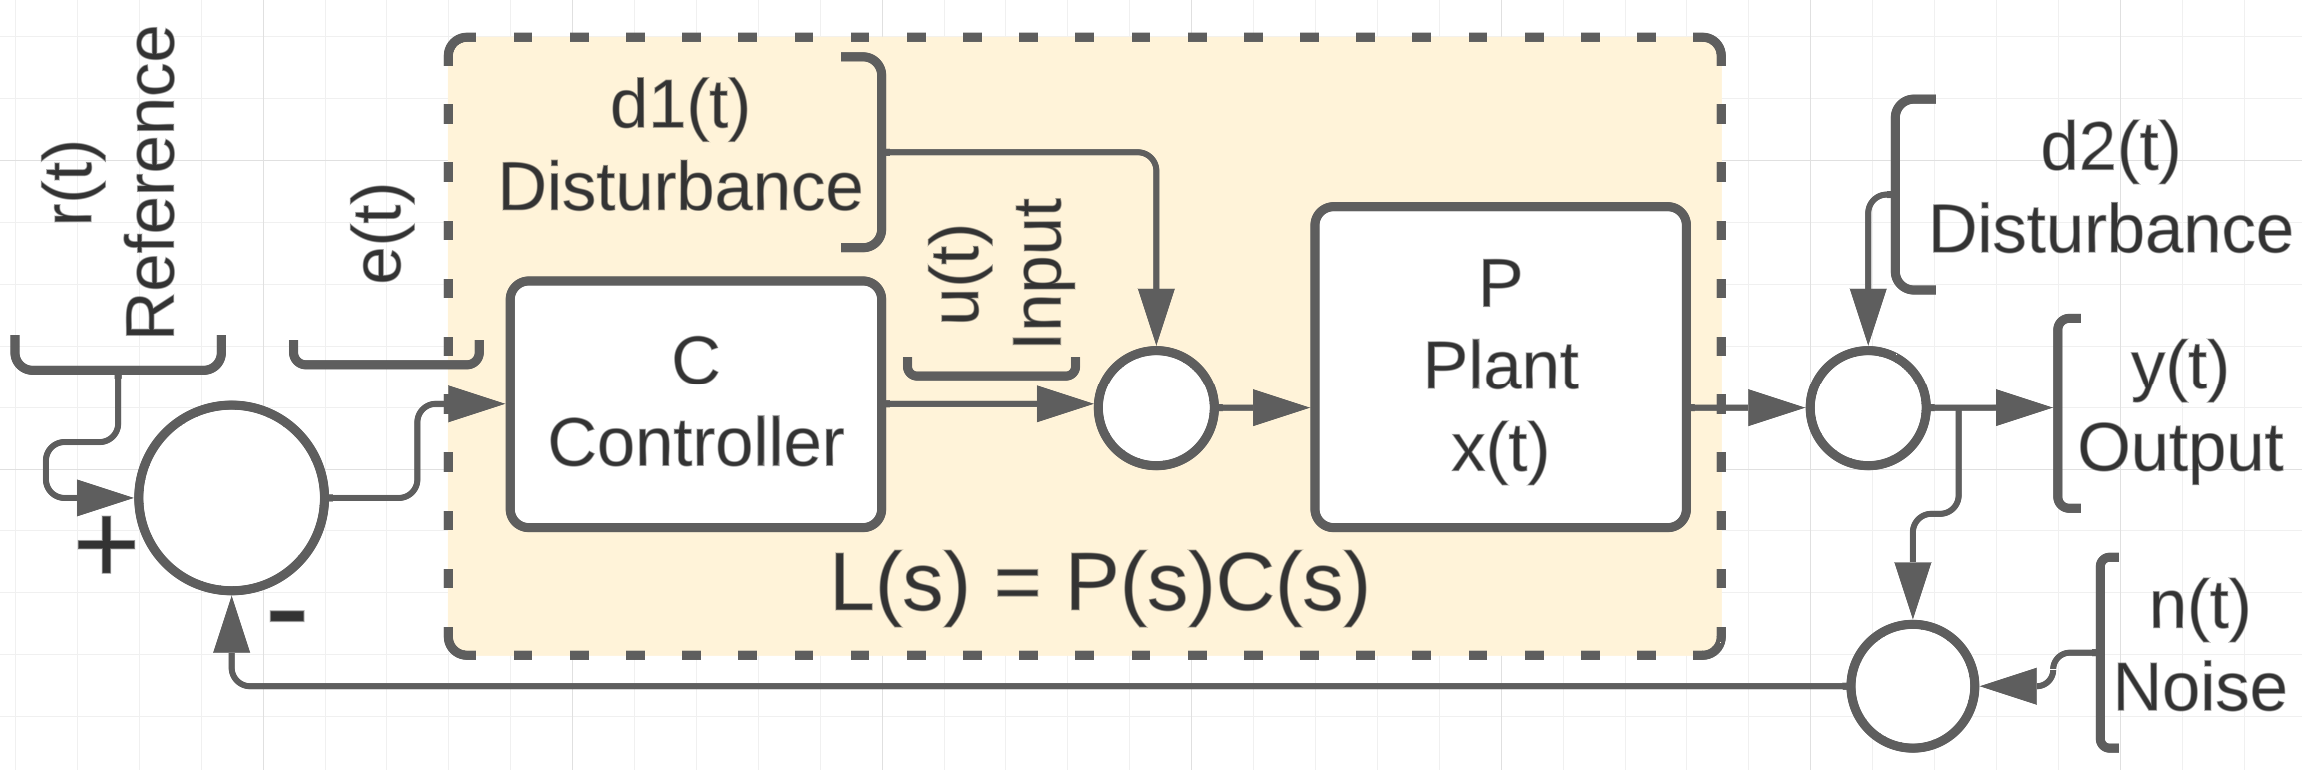
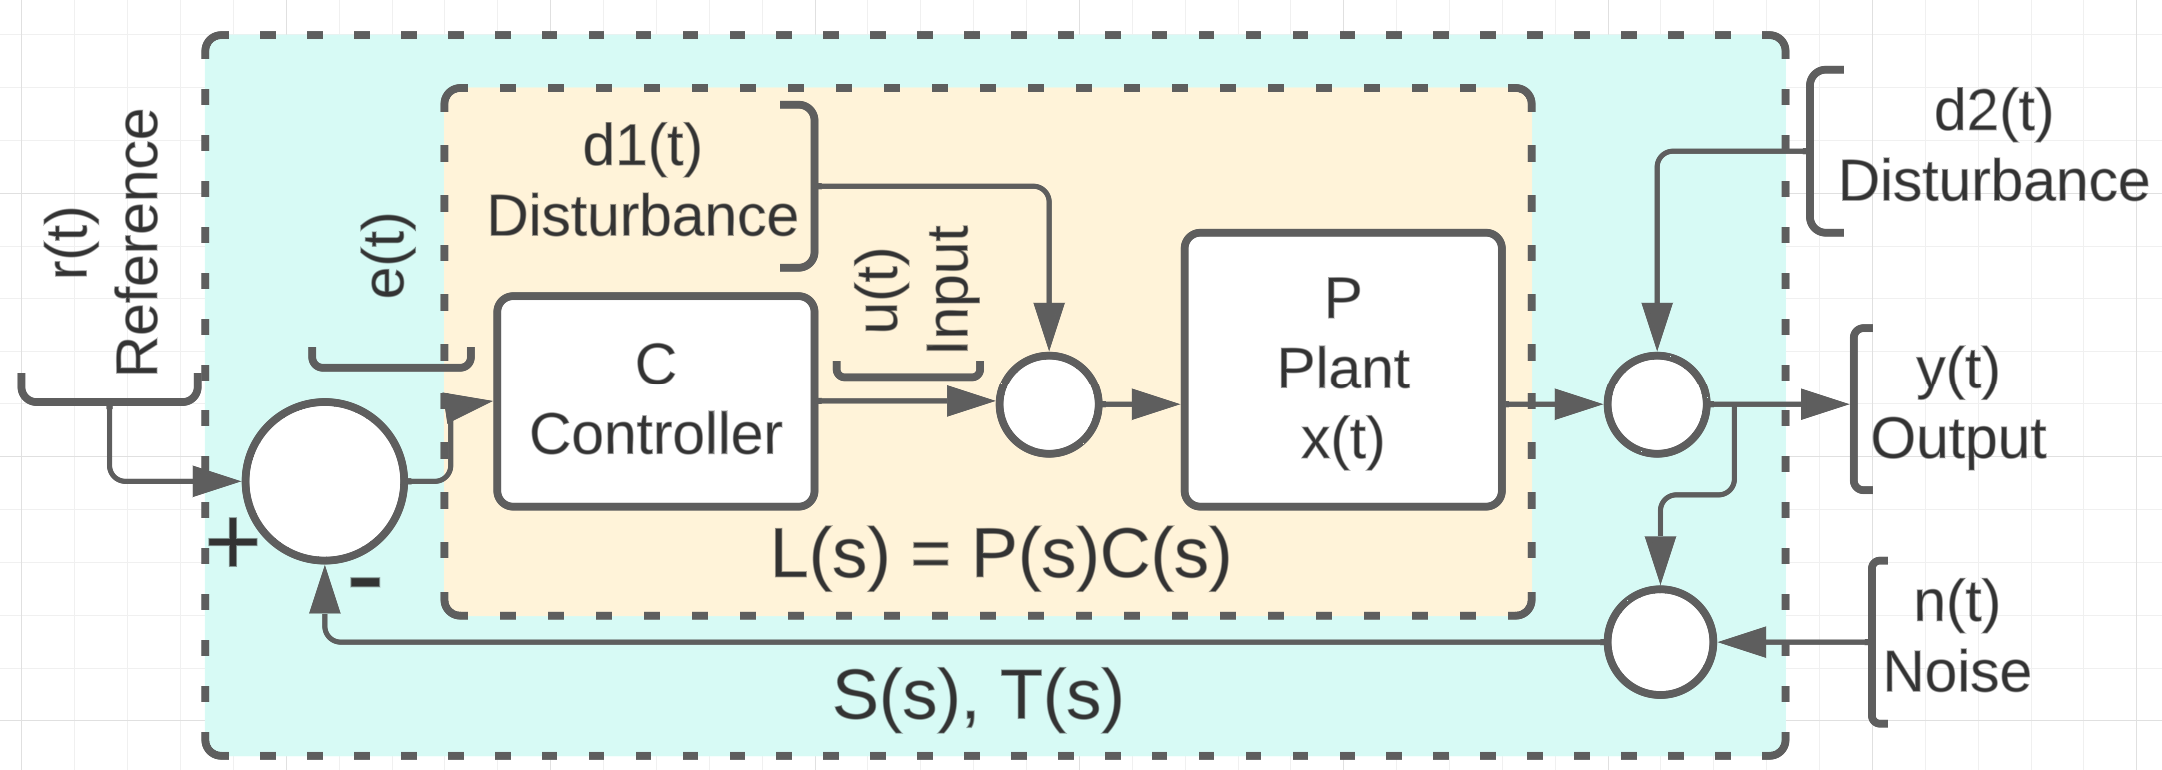
System response, Step responses, dominant poles, pid part 2

diff --git a/cheatsheet/src/4_manipulation/1_pid.tex b/cheatsheet/src/4_manipulation/1_pid.tex
@@ -1,14 +1,58 @@
 \subsection{PID Controller}
-    \titel{Differentiator}
-        \begin{align*}
-            y(t) = \frac{d u(t)}{dt} = \frac{d}{dt} e^{st} = s \cdot e^{st} = s \cdot u(t)
-        \end{align*}
-    \titel{Integrator}
-        \begin{align*}
-            y(t) = \int u(t) dt = \int e^{st} dt = \frac{1}{s} \cdot e^{st} = \frac{1}{s} \cdot u(t)
-        \end{align*}
+    \subsubsection{P-Controller}
+        \titel{Gain}
+            \begin{align*}
+                y(t) = u(t)
+            \end{align*}
+        \begin{itemize}
+            \item proportional to error
+            \item higher proportional gain moves crossover frequency up
+            \item $k_P$ increases:
+            \begin{itemize}
+                \item closed-loop system of 2nd and higher order become more oscillatory
+                \item closed-loop system remains stable
+                \item $e_{ss}$ decreases
+                \item faster response
+                \item increased sensitivity to noise
+            \end{itemize}
+        \end{itemize}
 
-    \titel{Building the controller}
+    \subsubsection{I-Controller (integral)}
+        \titel{Integrator}
+            \begin{align*}
+                y(t) = \int u(t) dt = \int e^{st} dt = \frac{1}{s} \cdot e^{st} = \frac{1}{s} \cdot u(t)
+            \end{align*}
+        \begin{itemize}
+            \item proportional to accumulated error
+            \item new zero introduced
+            \item number of asymptotes is reduced
+            \item steady state error to step input\textbf{exactly zero}
+            \item $k_I$ increases:
+            \begin{itemize}
+                \item more oscillatory response
+                \item noise sensitivity does not change
+            \end{itemize}
+        \end{itemize}
+
+    \subsubsection{D-Controller (derivative)}
+        \titel{Differentiator}
+            \begin{align*}
+                y(t) = \frac{d u(t)}{dt} = \frac{d}{dt} e^{st} = s \cdot e^{st} = s \cdot u(t)
+            \end{align*}
+        \begin{itemize}
+            \item proportional to rate of change of error (reduced overshoot)
+            \item pole introduced at $p=0$
+            \item zero introduced at $z = -\frac{k_i}{k_p}$
+            \item number of asymptotes unchanged
+            \item $k_P$ increases:
+            \begin{itemize}
+                \item $e_{ss}$ unaffected
+                \item less oscillatory, but potentially slower
+                \item increased sensitivity to noise
+            \end{itemize}
+        \end{itemize}
+
+    \subsubsection{Building the controller}
         \begin{minipage}{0.49\linewidth}
             \begin{align*}
                 C(s) &= k_P + \frac{k_I}{s} + k_D \cdot s\\

diff --git a/cheatsheet/src/3_analysis/1_system_response.tex b/cheatsheet/src/3_analysis/1_system_response.tex
@@ -1,0 +1,53 @@
+\subsection{System response}
+    \includegraphics[width = \linewidth]{src/images/basic_block_chart.png}
+    \begin{minipage}{0.49\linewidth}
+        \titel{Sensitivity}
+        \begin{center}
+            $S(s) = \frac{1}{1 + L(s)}$
+        \end{center}
+    \end{minipage}
+    \begin{minipage}{0.49\linewidth}
+        \titel{Complimentary Sensitivity}
+        \begin{center}
+            $S(s) = \frac{L(s)}{1 + L(s)}$
+        \end{center}
+    \end{minipage}
+    
+    \subsubsection{steady state error, disturbance and noise}
+    find steady state using final value theorem $\lim\limits_{t \rightarrow \infty} a(t) = \lim\limits_{s \rightarrow 0} A(s)$
+    \begin{minipage}{0.32\linewidth}
+        \begin{align*}
+            e(t) = S(s) r(t)\\
+            e(t) = - S(s) d_2(t)
+        \end{align*}
+    \end{minipage}
+    \begin{minipage}{0.32\linewidth}
+        \begin{align*}
+            e(t) = - S(s) n(t)\\
+            e(t) = - T(s) d_1(t)
+        \end{align*}
+    \end{minipage}
+    \begin{minipage}{0.32\linewidth}
+        \begin{align*}
+            y(t) = T(s) r(t)
+        \end{align*}
+    \end{minipage}
+
+    \subsubsection{Steady State error to Ramp reference Inputs}
+        Ramp is obtained by integrating step q-times:
+        \begin{align*}
+            r(t) = \frac{1}{s^q}\\
+            \rightarrow e_{ss} = \lim\limits_{s \rightarrow 0} \left( \frac{1}{1 + L(s)} \cdot \frac{1}{s^q} \right)\\
+            L(0) = \frac{k_{\text{Bode}}}{s^q}
+        \end{align*}
+        knowing Type (number of poles at origin of $L(s)$) and order $q$ of ramp:\\
+        \begin{tabu}[width = \linewidth]{| X | X | X | X |}
+            \hline
+            $e_{ss}$    & $q = 0$                           & $q = 1$                       & $q = 2$\\
+            \hline \hline
+            Type 0      & $\frac{1}{1 + k_{\text{Bode}}}$   & $\infty$                      & $\infty$\\
+            \hline
+            Type 1      & $0$                               & $\frac{1}{k_{\text{Bode}}}$   & $\infty$\\
+            \hline
+            Type 2      & $0$                               & $0$                           & $\frac{1}{k_{\text{Bode}}}$
+        \end{tabu}

diff --git a/cheatsheet/src/3_analysis/2_step_response.tex b/cheatsheet/src/3_analysis/2_step_response.tex
@@ -1,0 +1,39 @@
+\subsection{Step responses}
+    \subsubsection{First Order System}
+        \begin{align*}
+            G(s) = \frac{1}{\tau s + 1} \Leftrightarrow 
+            \begin{cases*}
+                \dot{x} = -\frac{1}{\tau} x + \frac{1}{\tau} u\\
+                y = x
+            \end{cases*}\\
+            \Rightarrow y(t) = 1-e^{-t/\tau}\\
+            T_d = \tau \ln(100/d)
+        \end{align*}
+        \includegraphics[width = \linewidth]{src/images/first_order_step_response.png}
+    \subsubsection{Second Order System}
+        \begin{align*}
+            G(s) = \frac{\omega_n^2}{s^2 + 2 \zeta \omega_n s + \omega_n^2}\\
+            \Leftrightarrow 
+            \begin{cases*}
+                \dot{x} = 
+                    \left[\begin{array}{c c}
+                        0 & 1\\
+                        -\omega_n^2 & -2 \zeta \omega_n
+                    \end{array}\right]
+                    x + 
+                    \left[\begin{array}{c}
+                        0\\
+                        \omega_n^2
+                    \end{array}\right] u\\
+                y = x
+            \end{cases*}\\
+            \Rightarrow y(t) = 1 - \frac{1}{cos(\varphi)}e^{\sigma t} cos(\omega t + \varphi)\\
+            T_d = \tau \ln(100/d)\\
+            \tau = \frac{1}{|\sigma|}\\
+            \text{Time to peak: } T_p = \frac{\pi}{\tau}\\
+            \text{Peak overshoot (ratio): } M_p = e^{\frac{\sigma \pi}{\omega}} \Rightarrow \zeta^2 = \frac{\ln(M_p)^2}{\pi^2 + \ln(M_p)^2}\\
+            \text{Rise time: } T_{100 \%} = \frac{\frac{\pi}{2} - \varphi}{\omega} \approx \frac{\pi}{2 \omega_n}
+        \end{align*}
+        \titel{Nomenclature}
+        \input{src/3_analysis/2-1_visualization_poles.tex}
+        \includegraphics[width = \linewidth]{src/images/second_order_step_response.png}

diff --git a/cheatsheet/main.tex b/cheatsheet/main.tex
@@ -36,7 +36,10 @@
 	%differentiator and integrator (Lecture 5 Page 24, 25, Lecture 6 page 31, 32)
 	
 \section{System Analysis}
-	\input{src/3_analysis/1_root_locus.tex}
+	\input{src/3_analysis/1_system_response.tex}
+	\input{src/3_analysis/2_step_response.tex}
+	\input{src/3_analysis/3_dominant_poles.tex}
+	\input{src/3_analysis/4_root_locus.tex}
 
 \section{System Manipulation}
 	\input{src/4_manipulation/1_pid.tex}
@@ -48,7 +51,7 @@
 	\input{src/5_appendix/1_matrix_exp.tex}
 	\input{src/5_appendix/2_euler_formula.tex}
 	\input{src/5_appendix/3_coverup.tex}
-	\input{src/5_appendix/4_visualization_poles.tex}
+	\input{src/5_appendix/4_initial_final_value.tex}
 
 \end{document}
 

diff --git a/cheatsheet/src/5_appendix/4_initial_final_value.tex b/cheatsheet/src/5_appendix/4_initial_final_value.tex
@@ -1,0 +1,10 @@
+\subsection{Initial and final value theorem}
+    \titel{Initial value theorem}
+        \begin{align*}
+            \lim\limits_{t \rightarrow 0} y(t) = \lim\limits_{s \rightarrow \infty} s Y(s)
+        \end{align*}
+    \titel{Final value theorem}
+        presupposed that \textbf{system is stable}
+        \begin{align*}
+            \lim\limits_{t \rightarrow \infty} y(t) = \lim\limits_{s \rightarrow 0} s Y(s)
+        \end{align*}

diff --git a/cheatsheet/src/3_analysis/4_root_locus.tex b/cheatsheet/src/3_analysis/4_root_locus.tex
@@ -36,7 +36,7 @@
     \item lines go to infinity along asymptotes with $\phi$ and centroid $c$ 
     \item $k < 0$: reverse rule 5 and add 180° to asymptotes
 \end{itemize}
-\begin{align*}
+\begin{align}
     n = \# \text{poles}, m = \# \text{zeros}, q = 0, 1, 2 \dots (n-m-1)\\
     \phi = \frac{2q + 1}{n-m} \cdot 180^{\circ}, c = \frac{\sum\text{finite poles}}{\sum\text{finite zeros}}
-\end{align*}
+\end{align}

diff --git a/cheatsheet/src/3_analysis/3_dominant_poles.tex b/cheatsheet/src/3_analysis/3_dominant_poles.tex
@@ -1,0 +1,4 @@
+\subsection{Dominant poles approximation}
+    Poles with the least negative part decay the slowest and are therefore considered \textbf{dominant}\\
+    $G(s) = \frac{130}{(s+5) (s+1) (s+0.5)} \approx \frac{26}{(s+1) (s+0.5)} = G_{\text{dom}}, G_{\text{dom}}(0) \overset{\!}{=} G(0)$\\
+    Pole-Zero cancellation with $p \approx z$ can be executed using the same method

diff --git a/cheatsheet/src/1_terminology/1_input_output_state.tex b/cheatsheet/src/1_terminology/1_input_output_state.tex
@@ -1,5 +1,5 @@
 \subsection{1.1 Input, Output, State}
-    \includegraphics[width = \linewidth]{src/images/basic_block_chart.png}
+    %\includegraphics[width = \linewidth]{src/images/basic_block_chart.png}
     \begin{itemize}
         \item \textbf{(Control) Input u(t)} (gas pedal)
         \begin{itemize}

diff --git a/cheatsheet/src/3_analysis/2-1_visualization_poles.tex b/cheatsheet/src/3_analysis/2-1_visualization_poles.tex
@@ -1,5 +1,3 @@
-\subsection{Visualization of the complex plane}
-% !TeX root = ../../ZF_bmicha_Ana.tex
 \tikzset{
     pattern size/.store in=\mcSize, 
     pattern size = 5pt,

diff --git a/cheatsheet/src/4_manipulation/2_lead_lag.tex b/cheatsheet/src/4_manipulation/2_lead_lag.tex
@@ -1,0 +1,1 @@
+\subsection{Lead- and Lag compensators}
